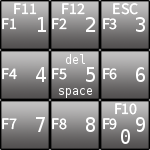
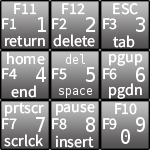
add more special keys to osk

diff --git a/src/PSP2/video_psp.cpp b/src/PSP2/video_psp.cpp
@@ -1271,10 +1271,10 @@ void VideoInterrupt(void)
     {
         unsigned int key;
         uint8 xlate_danzeff_us[128] = {
-            0, 0, 0, 0, 0, 0, 0, 0,
-            51, 0, 36, 122, 120, 99, 118, 96, // F1-F12 after 36 (CR)
-            97, 98, 100, 101, 109, 103, 111, 0,
-            0, 0, 0, 53, 0, 0, 0, 0,
+            0, 114, 117, 0, 0, 0, 0, 0, // empty string, insert, delete
+            51, 0, 36, 122, 120, 99, 118, 96, // F1-F5 after 36 (CR)
+            97, 98, 100, 101, 109, 103, 111, 48, // F6-F12, tab
+            115, 119, 116, 53, 121, 105, 107, 113, // home, end, pgup, esc, pgdown, prtscr, scrlock, pause
             49, 128+18, 128+39, 128+20, 128+21, 128+23, 128+26, 39,
             128+25, 128+29, 128+28, 128+24, 43, 27, 47, 44,
             29, 18, 19, 20, 21, 23, 22, 26,

diff --git a/src/PSP2/danzeff/danzeff.c b/src/PSP2/danzeff/danzeff.c
@@ -50,10 +50,10 @@ char modeChar[MODE_COUNT*2][3][3][5] =
 		{ "=RST",  ";UVW","/XYZ" }
 	},
 
-	{	//numbers and function keys
-		{ "\025\013\0001","\026\014\0002","\033\015\0003" },
-		{ "\0\016\0004",  "\010\017 5","\0\020\0006" },
-		{ "\0\021\0007","\0\022\0008", "\024\02309" }
+	{	//numbers and function keys etc.
+		{ "\025\013\0121","\026\014\0022","\033\015\0273" },
+		{ "\030\016\0314",  "\010\017 5","\032\020\0346" },
+		{ "\035\021\0367","\037\022\0018", "\024\02309" }
 	},
 
 	{	//special characters
